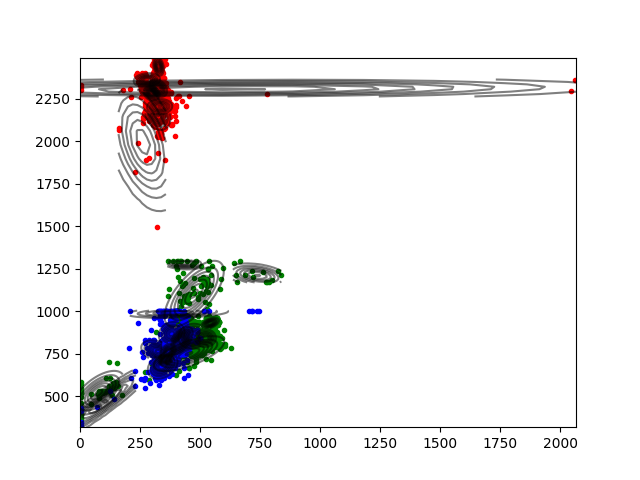
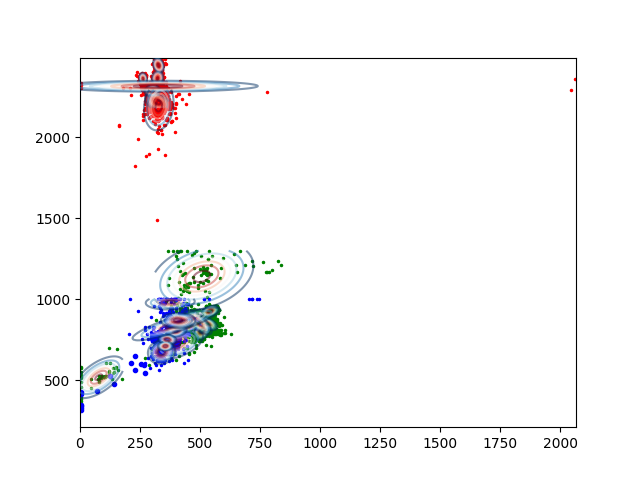
Test

diff --git a/Assignment2/main_1.py b/Assignment2/main_1.py
@@ -5,6 +5,8 @@ import matplotlib.pyplot as plt
 import GMMClassifier
 import GMM
 import KMeans
+from sklearn.cluster import KMeans as KM
+from scipy.stats import multivariate_normal
 print "Enter Case:-"
 print " 1 :- Non Linearly Seperable Data"
 print " 2a :- Real World Data"
@@ -150,6 +152,9 @@ if inp=="2c":
 	data = data.tolist()
 	print "Data Loaded"
 	cluster_centers, clusters = KMeans.KMeans(data, 3)
+	# k=KM(n_clusters=3)
+	# k=k.fit(data)
+	# cluster_centers=k.cluster_centers_
 	colors = ["b,", "g,", "r,"]
 	# plt.figure(1, figsize = (8.5,11))
 	aPlot = plt.subplot(111)
@@ -160,10 +165,10 @@ if inp=="2c":
 	plt.show()
 	print "KMeans done"
 	# print len(data.tolist())
-	files = os.listdir("Data/Data2c/Test/7by7_1_try/")
+	files = os.listdir("Data/Data2c/Test/7by7")
 	TEST = []
 	for i in files:
-		image = np.load("Data/Data2c/Test/7by7_1_try/" + i)
+		image = np.load("Data/Data2c/Test/7by7/" + i)
 		TEST.append(image.tolist())
 	data_p = []
 	for i in range(len(TEST)):
@@ -173,33 +178,42 @@ if inp=="2c":
 		for j in range(len(TEST[i])):
 			data_p.append(TEST[i][j])
 			cluster = KMeans.getCluster(cluster_centers, TEST[i][j])
-			if(cluster == 0):
-				for x in range(7):
-					for y in range(7):
-						cluster1.append([(j/73)*7 + x, (j%73)*7 + y])
-			if(cluster == 1):
-				c+=1
-				for x in range(7):
-					for y in range(7):
-						cluster2.append([(j/73)*7 + x, (j%73)*7 + y])
-			if(cluster == 2):
-				for x in range(7):
-					for y in range(7):
-						cluster3.append([(j/73)*7 + x, (j%73)*7 + y])
+			if cluster==0:
+				cluster1.append([j/505, j%505])
+			if cluster==1:
+				cluster2.append([j/505, j%505])
+			if cluster==2:
+				cluster3.append([j/505, j%505])
+			# if(cluster == 0):
+			# 	for x in range(7):
+			# 		for y in range(7):
+			# 			cluster1.append([(j/73)*7 + x, (j%73)*7 + y])
+			# if(cluster == 1):
+			# 	c+=1
+			# 	for x in range(7):
+			# 		for y in range(7):
+			# 			cluster2.append([(j/73)*7 + x, (j%73)*7 + y])
+			# if(cluster == 2):
+			# 	for x in range(7):
+			# 		for y in range(7):
+			# 			cluster3.append([(j/73)*7 + x, (j%73)*7 + y])
 		print len(cluster1), len(cluster2), len(cluster3)
+		C=[cluster1,cluster2,cluster3]
 		plot(cluster1,"b.")
 		plot(cluster2,"g.")
 		plot(cluster3,"r.")
 		plt.show()
 	# plt.show()	
-	GMM_center, GMM_sigma,GMM_pi, GMM_clusters = GMM.GMMCluster(data, 3, True, [cluster_centers, clusters])
+	print cluster_centers
+	GMM_center, GMM_sigma,GMM_pi, GMM_clusters = GMM.GMMCluster(data, 3, False, [cluster_centers, clusters])
+	print GMM_sigma
 	for i in range(3):
 		plot(GMM_clusters[i], colors[i])
 	for i in range(3):
 		plot([GMM_center[i]], "c*")
-	cluster1,cluster2,cluster3=[],[],[]
+	plt.show()
 	for i in range(len(TEST)):
-		cluster1,cluster2,cluster3 = [],[],[]
+		cluster1,cluster2,cluster3=[],[],[]
 		for j in range(len(TEST[i])):
 			index=-1
 			MAX=-10000000000000000.0
@@ -207,27 +221,28 @@ if inp=="2c":
 				if(GMM_pi[l]*multivariate_normal.pdf(TEST[i][j],mean=GMM_center[l],cov=GMM_sigma[l],allow_singular=True)>MAX):
 					index=l
 					MAX=GMM_pi[l]*multivariate_normal.pdf(TEST[i][j],mean=GMM_center[l],cov=GMM_sigma[l],allow_singular=True)
-			# if index==0:
-			# 	cluster1.append([j/505, j%505])
-			# if index==1:
-			# 	cluster2.append([j/505, j%505])
-			# if index==2:
-			# 	cluster3.append([j/505, j%505])
-			if(cluster == 0):
-				for x in range(7):
-					for y in range(7):
-						cluster1.append([(j%73)*7 + y, (j/73)*7 + x])
-			if(cluster == 1):
-				for x in range(7):
-					for y in range(7):
-						cluster2.append([(j%73)*7 + y, (j/73)*7 + x])
-			if(cluster == 2):
-				for x in range(7):
-					for y in range(7):
-						cluster3.append([(j%73)*7 + y, (j/73)*7 + x])
-
-		plot(cluster1,"bo")
-		plot(cluster2,"ro")
-		plot(cluster3,"go")
+			if index==0:
+				cluster1.append([j/505, j%505])
+			if index==1:
+				cluster2.append([j/505, j%505])
+			if index==2:
+				cluster3.append([j/505, j%505])
+			# if(index == 0):
+			# 	for x in range(7):
+			# 		for y in range(7):
+			# 			cluster1.append([(j/73)*7 + x, (j%73)*7 + y])
+			# if(index == 1):
+			# 	c+=1
+			# 	for x in range(7):
+			# 		for y in range(7):
+			# 			cluster2.append([(j/73)*7 + x, (j%73)*7 + y])
+			# if(index == 2):
+			# 	for x in range(7):
+			# 		for y in range(7):
+			# 			cluster3.append([(j/73)*7 + x, (j%73)*7 + y])
+		print len(cluster1), len(cluster2), len(cluster3)				
+		plot(cluster1,"b.")
+		plot(cluster2,"r.")
+		plot(cluster3,"g.")
 		plt.show()
 	 

diff --git a/Assignment2/GMM.py b/Assignment2/GMM.py
@@ -58,8 +58,8 @@ def GMMCluster(DATA,Num_of_Clusters,diagonal=False, kmeans=[]):#data for class n
 	#--------------------------------------------------------
 	Distortion=[]
 	thresh=10
-	while(len(Distortion)<8 or abs(Distortion[len(Distortion)-1]-Distortion[len(Distortion)-2])>thresh):
-	# while(1>2):
+	while(len(Distortion)<5 or abs(Distortion[len(Distortion)-1]-Distortion[len(Distortion)-2])>thresh):
+	# for i in range(1):
 		# Finding Gamma(n,k)
 		Gamma=[]
 		Clusters=[]
